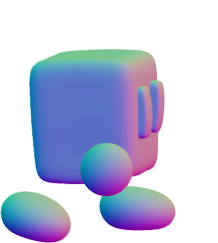
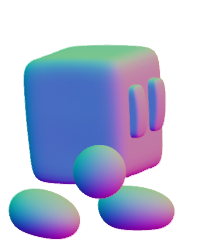
Fixed offset frame for character bopz
Frames now completely match. Animation is now flawless

small update to readme with link to demo

diff --git a/README.md b/README.md
@@ -1,3 +1,5 @@
 # 2D normal mapping
 
 This sample project shows how to use a sprite material with multiple samplers and textures to achieve a normal mapped 2D light effect.
+
+Demo: https://defold.com/sample-normal-maps-2d/
